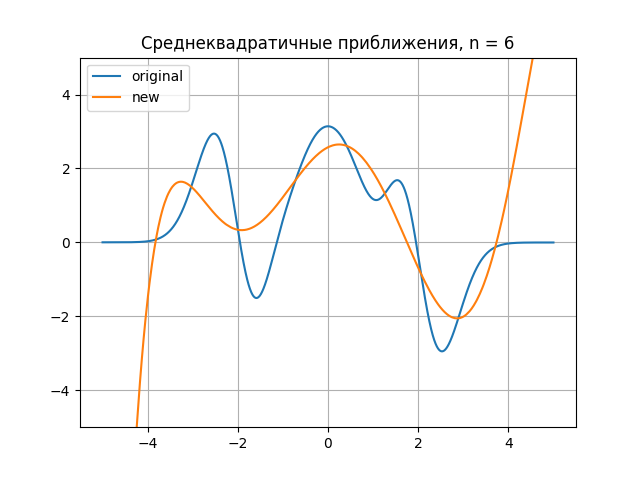
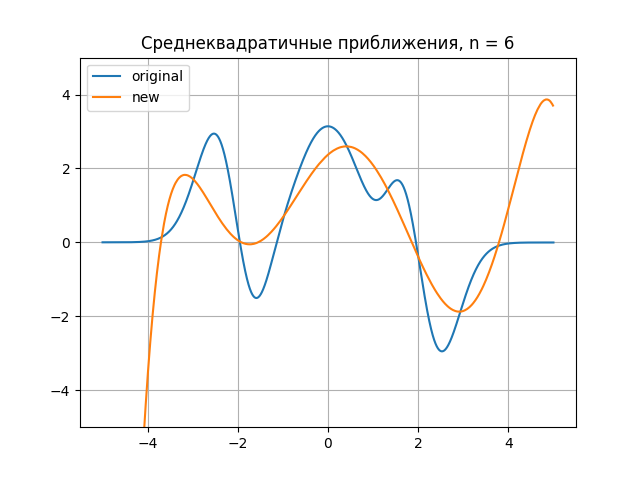
correct drawing plots, add some tmp result

diff --git a/MV/lab2/lab2.py b/MV/lab2/lab2.py
@@ -6,6 +6,7 @@ import numpy as np
 
 
 file = open("out.txt", mode="w")
+is_show_plot=False
 
 
 def func_f(x):
@@ -38,10 +39,14 @@ def show_plot(f):
         plt.legend(loc='upper left')
         plt.ylim(-5, 5)
         plt.grid(True)
-        plt.show()
 
         fig1 = plt.gcf()
+        if is_show_plot:
+            plt.show()
+        plt.draw()
         fig1.savefig(args[-1].lower() + ".png", dpi=100)
+        plt.close()
+
 
     return wrapper
 
